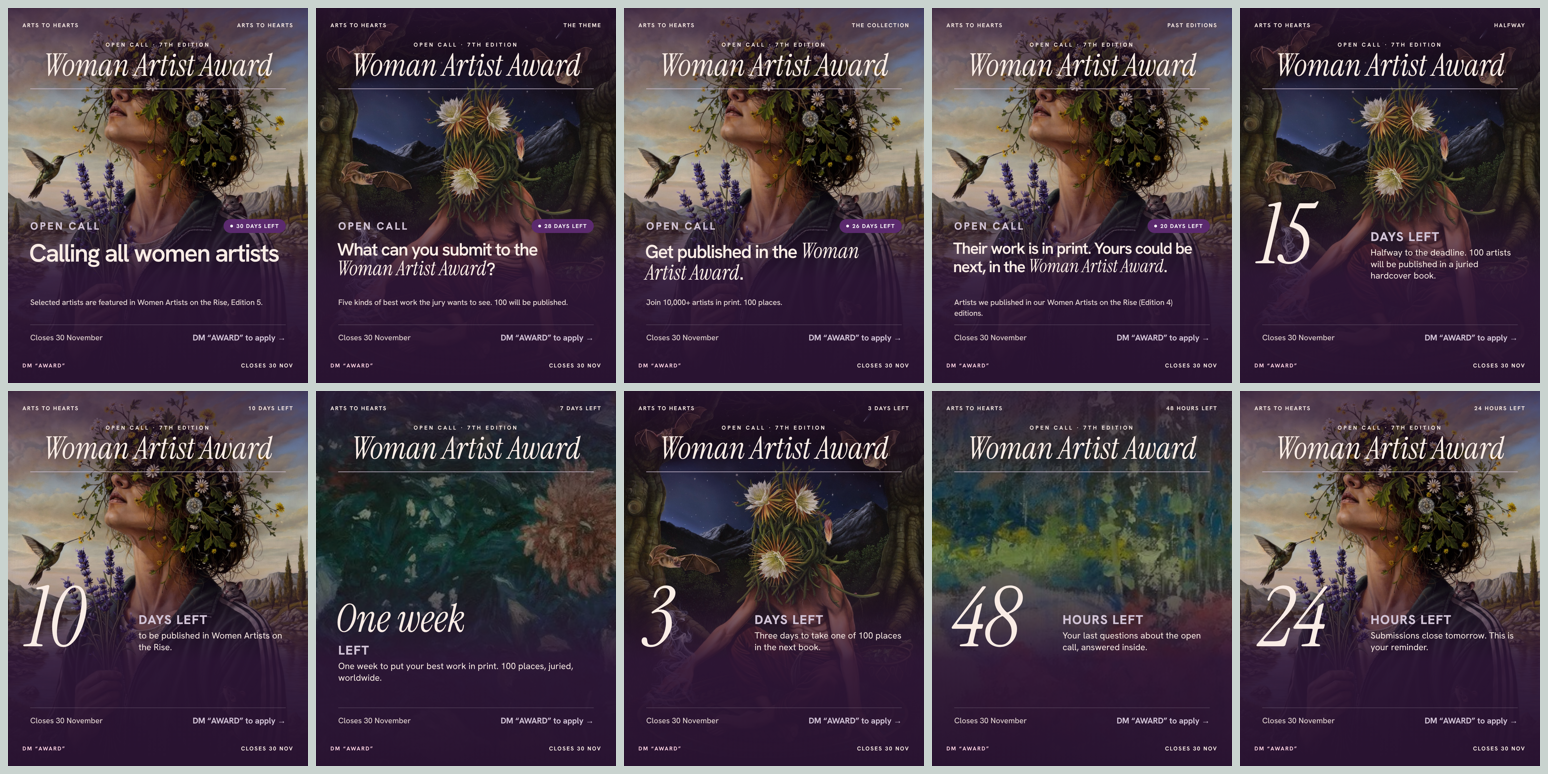
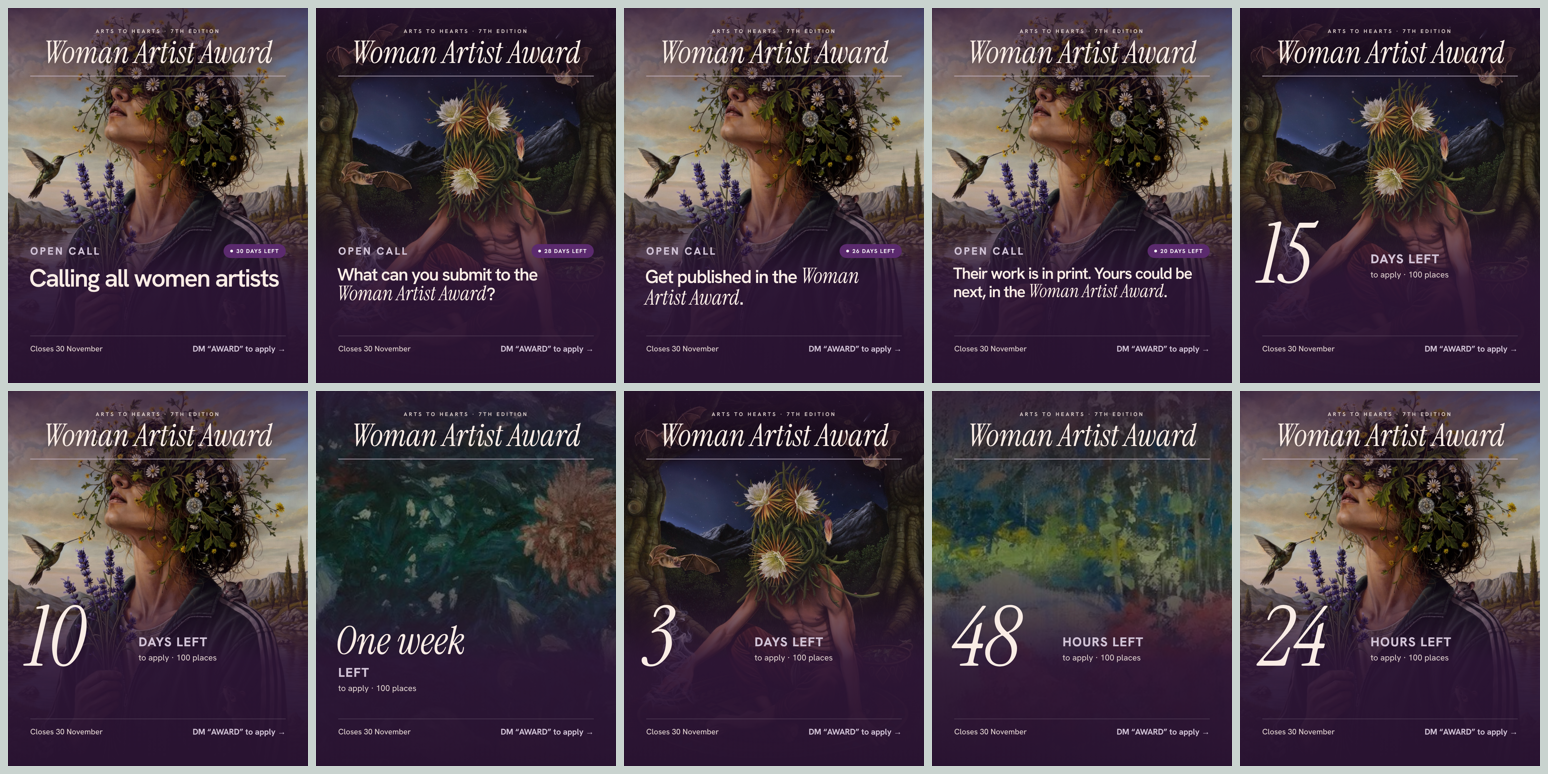
Woman Artist Award covers decluttered: masthead, portrait, one action line
Claude-Session: https://claude.ai/code/session_01Bc4gkdxg6i3YRuybqzVB3k

diff --git a/design/campaigns/open-calls/month.js b/design/campaigns/open-calls/month.js
@@ -331,27 +331,26 @@ G.ink   = () => isEd() ? ({bg:mix(state.colour, '#000000', .55), fg:CREAM, acc:t
 const ED = {
   // magazine cover: full-bleed portrait, masthead across the top, cover lines at the bottom
   mast(){ const acc = tint(state.colour);
-    return `<p class="a c cn" style="left:0;right:0;top:118px;color:${CREAM};font-size:20px;letter-spacing:.3em">Open call · ${esc(state.editionLabel || '')}</p>
-      <p class="a c scr" style="left:40px;right:40px;top:150px;font-size:${String(state.name).length > 18 ? 96 : 112}px;line-height:1;white-space:nowrap;color:${CREAM};text-shadow:0 4px 30px rgba(0,0,0,.35)">${esc(state.name)}</p>
-      <div class="a" style="left:80px;right:80px;top:290px;border-top:2px solid ${acc}"></div>`; },
+    return `<p class="a c cn" style="left:0;right:0;top:70px;color:${CREAM};font-size:19px;letter-spacing:.32em;opacity:.85">Arts to Hearts · ${esc(state.editionLabel || '')}</p>
+      <p class="a c scr" style="left:40px;right:40px;top:104px;font-size:${String(state.name).length > 18 ? 96 : 112}px;line-height:1;white-space:nowrap;color:${CREAM};text-shadow:0 4px 30px rgba(0,0,0,.35)">${esc(state.name)}</p>
+      <div class="a" style="left:80px;right:80px;top:244px;border-top:2px solid ${acc}"></div>`; },
   shade(){ return `<div class="a" style="inset:0;background:linear-gradient(180deg,${rgba(mix(state.colour,'#000000',.5),.75)} 0%,rgba(0,0,0,.05) 30%,rgba(0,0,0,0) 45%,${rgba(mix(state.colour,'#000000',.5),.9)} 72%,${mix(state.colour,'#000000',.55)} 100%)"></div>`; },
   hook(o){ const acc = tint(state.colour);
     return {bg:INK, html:`${imgDiv(o.img || o.art || ART[0], 'inset:0', o.pos || o.artPos || 'center 22%')}${ED.shade()}
-      ${corners(CREAM, PEONY, o.tr)}${ED.mast()}
-      <div class="a" style="left:80px;right:80px;top:${o.top || 760}px;display:flex;justify-content:space-between;align-items:center">${OPENCALL(acc)}${timer(false)}</div>
-      <p class="a H" style="left:76px;right:80px;top:${(o.top || 760) + 76}px;font-size:${Math.round((o.size||80)*.8)}px;color:${CREAM}">${o.head}</p>
-      ${o.sub ? `<p class="a sub" style="left:80px;right:150px;top:${o.subTop || 1040}px;font-size:28px;color:${CREAM};opacity:.9">${o.sub}</p>` : ''}
-      ${coverCTA(1140, CREAM, acc)}`};
+      ${ED.mast()}
+      <div class="a" style="left:80px;right:80px;top:${o.top || 850}px;display:flex;justify-content:space-between;align-items:center">${OPENCALL(acc)}${timer(false)}</div>
+      <p class="a H" style="left:76px;right:80px;top:${(o.top || 850) + 76}px;font-size:${Math.round((o.size||80)*.8)}px;color:${CREAM}">${o.head}</p>
+      ${coverCTA(1180, CREAM, acc)}`};
   },
   count(o){ const acc = tint(state.colour); const chilli = o.tone === 'chilli';
     const big = String(o.big), size = big.length <= 2 ? 300 : big.length <= 8 ? 140 : 110;
     return {bg:INK, html:`${imgDiv(o.img || ART[0], 'inset:0', o.pos || 'center 22%')}${ED.shade()}
       ${chilli ? '<div class="a" style="inset:0;background:rgba(170,0,3,.55)"></div>' : ''}
-      ${corners(CREAM, PEONY, o.tr || leftLabel())}${ED.mast()}
-      <p class="a scr" style="left:70px;top:${big.length <= 2 ? 690 : 760}px;font-size:${size}px;line-height:.85;color:${CREAM}">${big}</p>
-      <p class="a" style="left:${big.length <= 2 ? 470 : 80}px;top:${big.length <= 2 ? 790 : 900}px;font-size:46px;font-weight:800;letter-spacing:.06em;text-transform:uppercase;color:${chilli ? CREAM : acc}">${esc(o.unit)}</p>
-      <p class="a" style="left:${big.length <= 2 ? 470 : 80}px;right:80px;top:${big.length <= 2 ? 860 : 970}px;font-size:32px;line-height:1.3;color:${CREAM}">${o.info || `to be published in ${esc(state.bookName || 'the book')}.`}</p>
-      ${coverCTA(1140, CREAM, chilli ? CREAM : acc)}`};
+      ${ED.mast()}
+      <p class="a scr" style="left:70px;top:${big.length <= 2 ? 760 : 840}px;font-size:${size}px;line-height:.85;color:${CREAM}">${big}</p>
+      <p class="a" style="left:${big.length <= 2 ? 470 : 80}px;top:${big.length <= 2 ? 870 : 980}px;font-size:46px;font-weight:800;letter-spacing:.06em;text-transform:uppercase;color:${chilli ? CREAM : acc}">${esc(o.unit)}</p>
+      <p class="a" style="left:${big.length <= 2 ? 470 : 80}px;right:80px;top:${big.length <= 2 ? 940 : 1050}px;font-size:30px;line-height:1.3;color:${CREAM};opacity:.9">to apply · ${esc(state.selected)} places</p>
+      ${coverCTA(1180, CREAM, chilli ? CREAM : acc)}`};
   },
 };
 

diff --git a/site/post-studio/month.js b/site/post-studio/month.js
@@ -331,27 +331,26 @@ G.ink   = () => isEd() ? ({bg:mix(state.colour, '#000000', .55), fg:CREAM, acc:t
 const ED = {
   // magazine cover: full-bleed portrait, masthead across the top, cover lines at the bottom
   mast(){ const acc = tint(state.colour);
-    return `<p class="a c cn" style="left:0;right:0;top:118px;color:${CREAM};font-size:20px;letter-spacing:.3em">Open call · ${esc(state.editionLabel || '')}</p>
-      <p class="a c scr" style="left:40px;right:40px;top:150px;font-size:${String(state.name).length > 18 ? 96 : 112}px;line-height:1;white-space:nowrap;color:${CREAM};text-shadow:0 4px 30px rgba(0,0,0,.35)">${esc(state.name)}</p>
-      <div class="a" style="left:80px;right:80px;top:290px;border-top:2px solid ${acc}"></div>`; },
+    return `<p class="a c cn" style="left:0;right:0;top:70px;color:${CREAM};font-size:19px;letter-spacing:.32em;opacity:.85">Arts to Hearts · ${esc(state.editionLabel || '')}</p>
+      <p class="a c scr" style="left:40px;right:40px;top:104px;font-size:${String(state.name).length > 18 ? 96 : 112}px;line-height:1;white-space:nowrap;color:${CREAM};text-shadow:0 4px 30px rgba(0,0,0,.35)">${esc(state.name)}</p>
+      <div class="a" style="left:80px;right:80px;top:244px;border-top:2px solid ${acc}"></div>`; },
   shade(){ return `<div class="a" style="inset:0;background:linear-gradient(180deg,${rgba(mix(state.colour,'#000000',.5),.75)} 0%,rgba(0,0,0,.05) 30%,rgba(0,0,0,0) 45%,${rgba(mix(state.colour,'#000000',.5),.9)} 72%,${mix(state.colour,'#000000',.55)} 100%)"></div>`; },
   hook(o){ const acc = tint(state.colour);
     return {bg:INK, html:`${imgDiv(o.img || o.art || ART[0], 'inset:0', o.pos || o.artPos || 'center 22%')}${ED.shade()}
-      ${corners(CREAM, PEONY, o.tr)}${ED.mast()}
-      <div class="a" style="left:80px;right:80px;top:${o.top || 760}px;display:flex;justify-content:space-between;align-items:center">${OPENCALL(acc)}${timer(false)}</div>
-      <p class="a H" style="left:76px;right:80px;top:${(o.top || 760) + 76}px;font-size:${Math.round((o.size||80)*.8)}px;color:${CREAM}">${o.head}</p>
-      ${o.sub ? `<p class="a sub" style="left:80px;right:150px;top:${o.subTop || 1040}px;font-size:28px;color:${CREAM};opacity:.9">${o.sub}</p>` : ''}
-      ${coverCTA(1140, CREAM, acc)}`};
+      ${ED.mast()}
+      <div class="a" style="left:80px;right:80px;top:${o.top || 850}px;display:flex;justify-content:space-between;align-items:center">${OPENCALL(acc)}${timer(false)}</div>
+      <p class="a H" style="left:76px;right:80px;top:${(o.top || 850) + 76}px;font-size:${Math.round((o.size||80)*.8)}px;color:${CREAM}">${o.head}</p>
+      ${coverCTA(1180, CREAM, acc)}`};
   },
   count(o){ const acc = tint(state.colour); const chilli = o.tone === 'chilli';
     const big = String(o.big), size = big.length <= 2 ? 300 : big.length <= 8 ? 140 : 110;
     return {bg:INK, html:`${imgDiv(o.img || ART[0], 'inset:0', o.pos || 'center 22%')}${ED.shade()}
       ${chilli ? '<div class="a" style="inset:0;background:rgba(170,0,3,.55)"></div>' : ''}
-      ${corners(CREAM, PEONY, o.tr || leftLabel())}${ED.mast()}
-      <p class="a scr" style="left:70px;top:${big.length <= 2 ? 690 : 760}px;font-size:${size}px;line-height:.85;color:${CREAM}">${big}</p>
-      <p class="a" style="left:${big.length <= 2 ? 470 : 80}px;top:${big.length <= 2 ? 790 : 900}px;font-size:46px;font-weight:800;letter-spacing:.06em;text-transform:uppercase;color:${chilli ? CREAM : acc}">${esc(o.unit)}</p>
-      <p class="a" style="left:${big.length <= 2 ? 470 : 80}px;right:80px;top:${big.length <= 2 ? 860 : 970}px;font-size:32px;line-height:1.3;color:${CREAM}">${o.info || `to be published in ${esc(state.bookName || 'the book')}.`}</p>
-      ${coverCTA(1140, CREAM, chilli ? CREAM : acc)}`};
+      ${ED.mast()}
+      <p class="a scr" style="left:70px;top:${big.length <= 2 ? 760 : 840}px;font-size:${size}px;line-height:.85;color:${CREAM}">${big}</p>
+      <p class="a" style="left:${big.length <= 2 ? 470 : 80}px;top:${big.length <= 2 ? 870 : 980}px;font-size:46px;font-weight:800;letter-spacing:.06em;text-transform:uppercase;color:${chilli ? CREAM : acc}">${esc(o.unit)}</p>
+      <p class="a" style="left:${big.length <= 2 ? 470 : 80}px;right:80px;top:${big.length <= 2 ? 940 : 1050}px;font-size:30px;line-height:1.3;color:${CREAM};opacity:.9">to apply · ${esc(state.selected)} places</p>
+      ${coverCTA(1180, CREAM, chilli ? CREAM : acc)}`};
   },
 };
 
